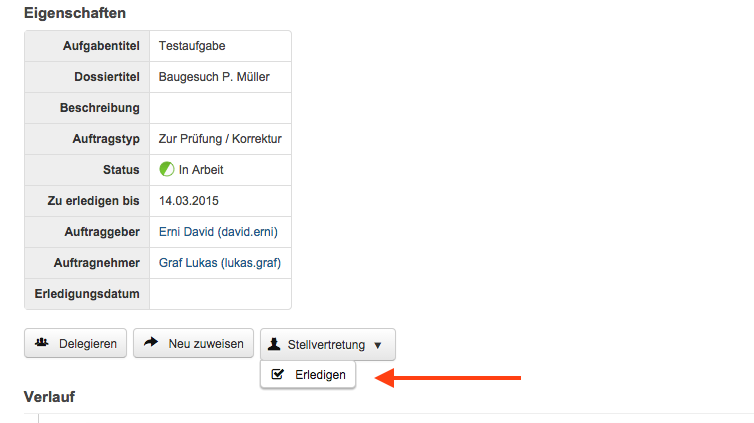
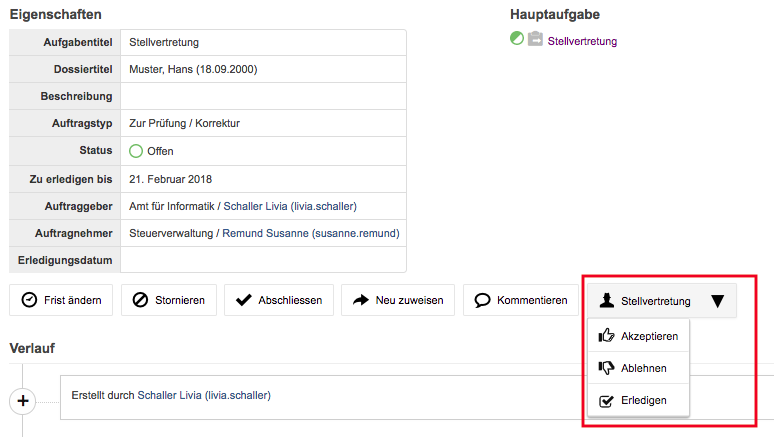
Anpassung Printscreen Stellvertertung-Dropdown.

diff --git a/docs/public/user-manual/aufgaben/stellvertretung.rst b/docs/public/user-manual/aufgaben/stellvertretung.rst
@@ -6,12 +6,8 @@ können Aufgaben stellvertretend für ihre Mitarbeiter bearbeiten. Dabei
 können Sie Aktionen stellvertretend für Mitarbeiter durchführen.
 
 Es kann z.B. eine Sekretärin stellvertretend für einen abwesenden
-Sachbearbeiter eine Aufgabe erledigen.
-
-Ab dem Release 3.0 werden Aktionen welche nur aufgrund der
-Stellvertreter-Berechtigung zur Verfügung stehen, in einem separaten
-Dropdown dargestellt. Dies soll eine unbewusste Stellvertretung bei
-Aufgaben verhindern.
+Sachbearbeiter eine Aufgabe erledigen. Dies kann direkt im
+Stellvertreter-Dropdown vorgenommen werden.
 
 |image222|
 
